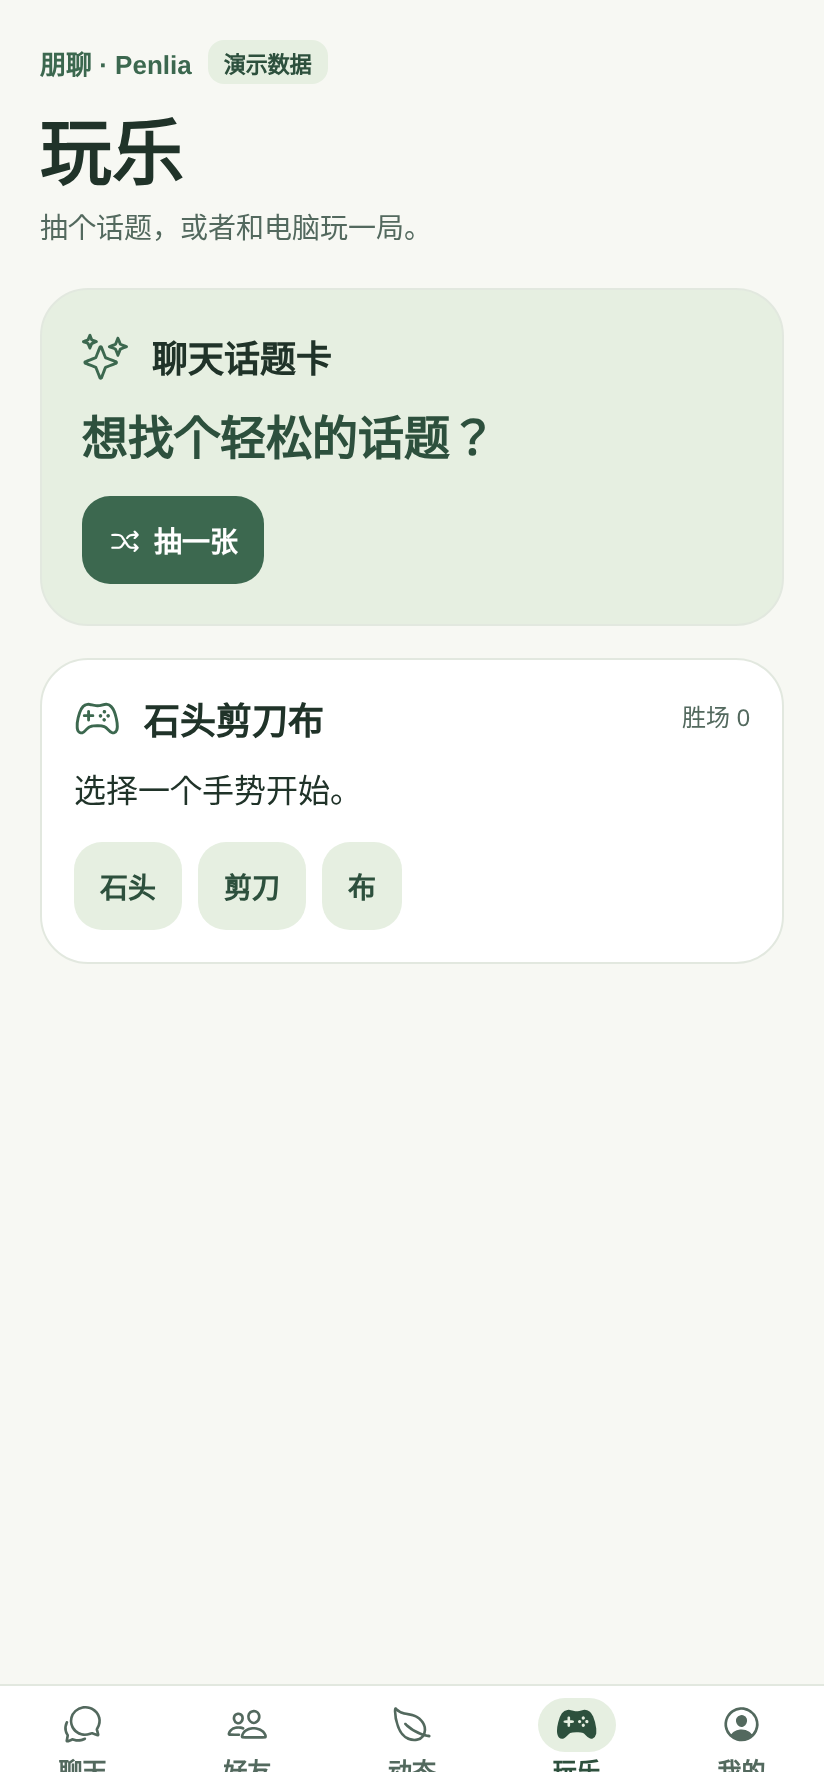
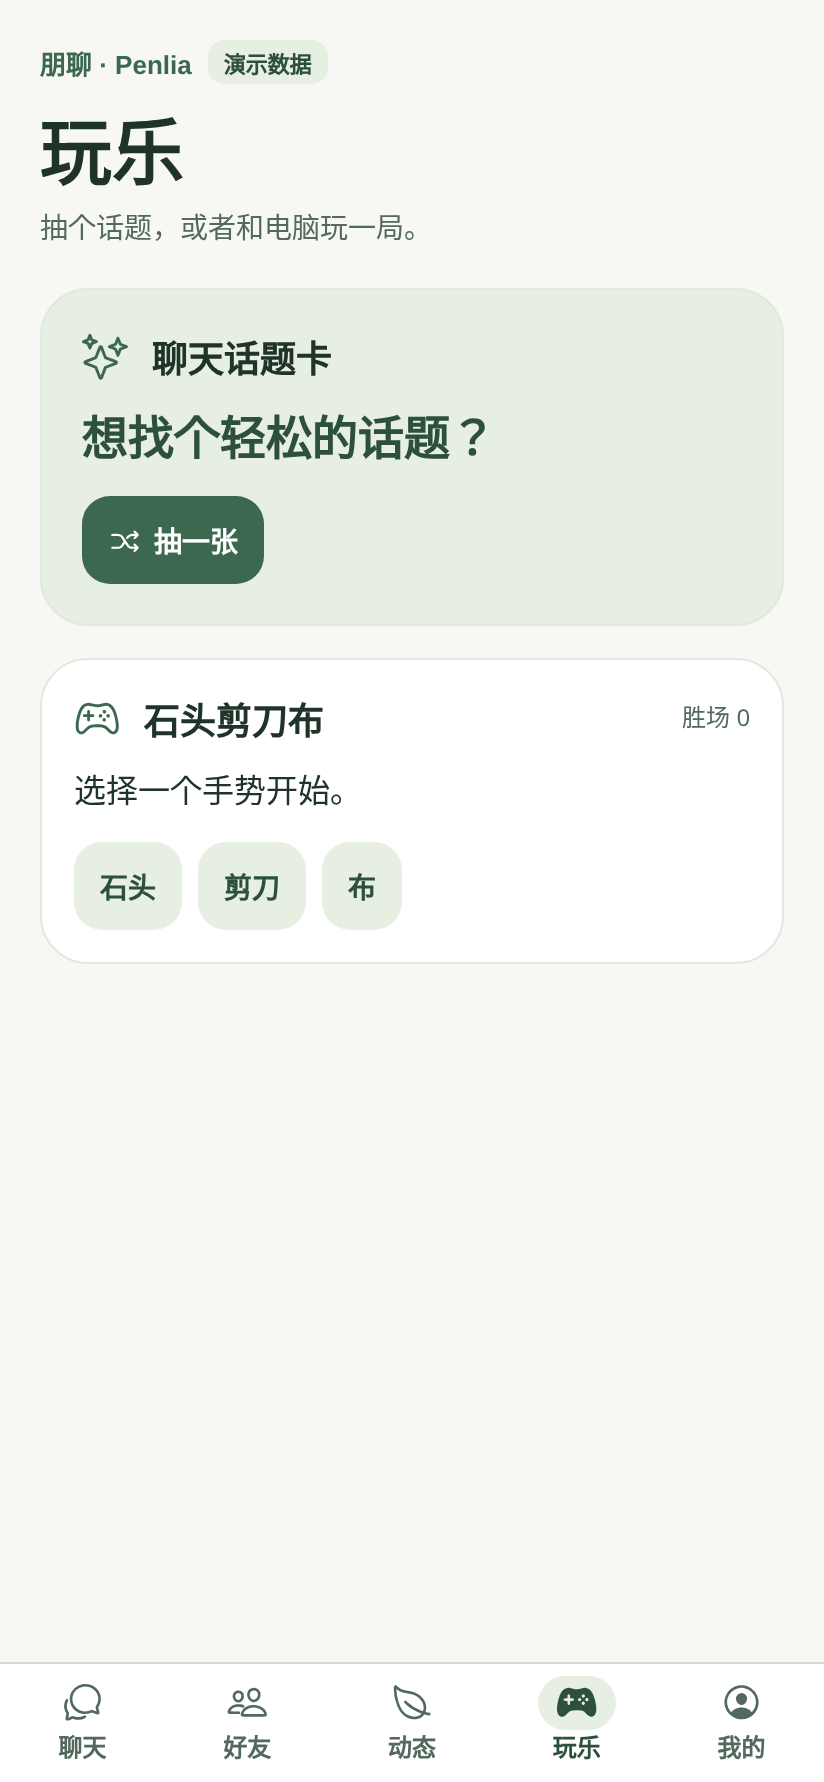
Keep Chinese tab labels visible in the mobile web preview

diff --git a/src/app/(tabs)/_layout.tsx b/src/app/(tabs)/_layout.tsx
@@ -1,6 +1,6 @@
 import Ionicons from '@expo/vector-icons/Ionicons';
 import { Tabs } from 'expo-router/js-tabs';
-import { StyleSheet, View } from 'react-native';
+import { Platform, StyleSheet, View } from 'react-native';
 
 import type { IconName } from '../../components/ui';
 import { colors } from '../../theme';
@@ -22,8 +22,8 @@ export default function TabLayout() {
         tabBarActiveTintColor: colors.deep,
         tabBarInactiveTintColor: colors.muted,
         tabBarHideOnKeyboard: true,
-        tabBarLabelStyle: { fontSize: 12, fontWeight: '600' },
-        tabBarStyle: { backgroundColor: colors.panel, borderTopColor: colors.border },
+        tabBarLabelStyle: [local.label, Platform.OS === 'web' && local.webLabel],
+        tabBarStyle: [local.bar, Platform.OS === 'web' && local.webBar],
       }}
     >
       {tabs.map(({ name, title, icon, activeIcon }) => (
@@ -45,6 +45,10 @@ export default function TabLayout() {
 }
 
 const local = StyleSheet.create({
+  label: { fontSize: 12, fontWeight: '600' },
+  webLabel: { lineHeight: 18, flexShrink: 0 },
+  bar: { backgroundColor: colors.panel, borderTopColor: colors.border },
+  webBar: { height: 60, paddingBottom: 4 },
   icon: { width: 39, height: 27, alignItems: 'center', justifyContent: 'center', borderRadius: 16 },
   selected: { backgroundColor: colors.sage },
 });
